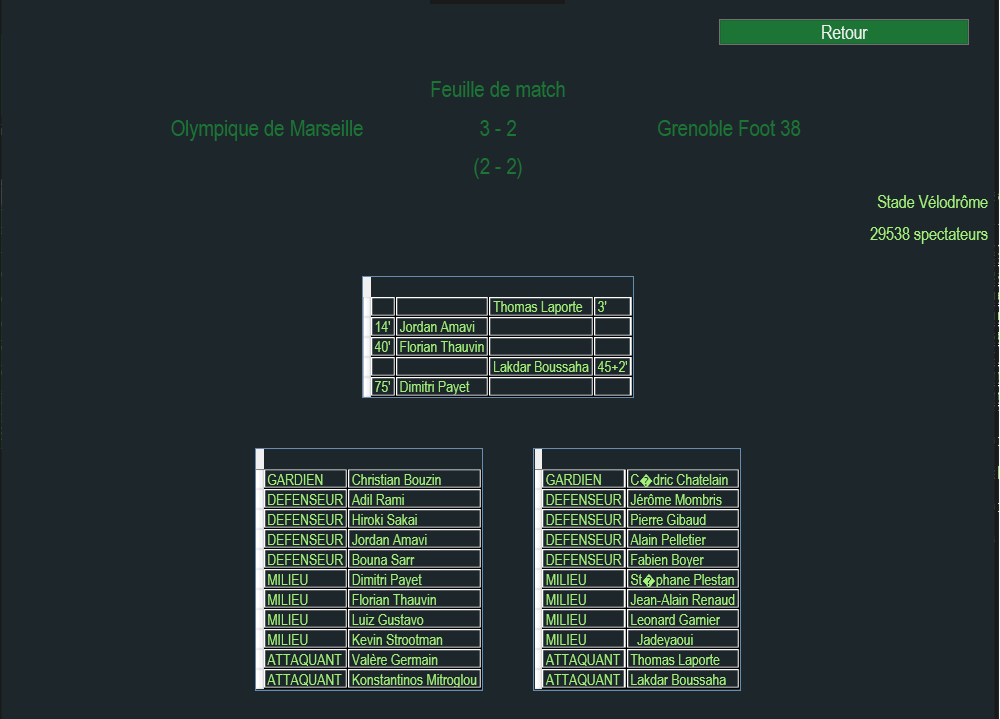
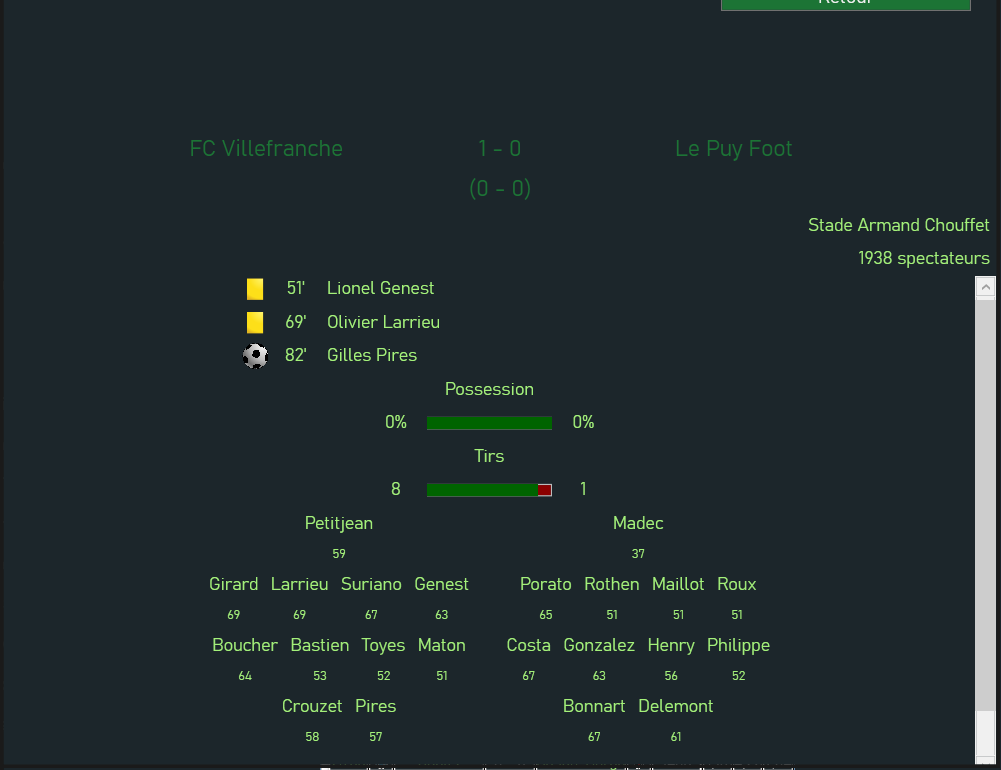
Add visual composition in match view

diff --git a/TheManager_GUI/Windows_Match.xaml b/TheManager_GUI/Windows_Match.xaml
@@ -41,19 +41,8 @@
 						<ProgressBar Name="pbTirs" Minimum="0" Maximum="100" Value="50" Width="100" Height="10" Foreground="DarkGreen" Background="DarkRed" />
 						<Label Name="lbTirs2" Content="10" Width="50" HorizontalContentAlignment="Center" Style="{StaticResource StyleLabel2}"/>
 					</StackPanel>
-					<StackPanel Orientation="Horizontal" HorizontalAlignment="Center">
-						<DataGrid IsReadOnly="True" MouseDoubleClick="DgCompo1_MouseDoubleClick" MaxHeight="175" Margin="20" Name="dgCompo1" Style="{StaticResource StyleDataGrid}" CellStyle="{StaticResource StyleDataCellGrid}" ColumnHeaderStyle="{StaticResource StyleDataHeaderGrid}">
-							<DataGrid.Columns>
-								<DataGridTextColumn Header="" Binding="{Binding Poste}"/>
-								<DataGridTextColumn Header="" Binding="{Binding Joueur}"/>
-							</DataGrid.Columns>
-						</DataGrid>
-						<DataGrid IsReadOnly="True" MouseDoubleClick="DgCompo2_MouseDoubleClick" MaxHeight="175" Margin="20" Name="dgCompo2" Style="{StaticResource StyleDataGrid}" CellStyle="{StaticResource StyleDataCellGrid}" ColumnHeaderStyle="{StaticResource StyleDataHeaderGrid}">
-							<DataGrid.Columns>
-								<DataGridTextColumn Header="" Binding="{Binding Poste}"/>
-								<DataGridTextColumn Header="" Binding="{Binding Joueur}"/>
-							</DataGrid.Columns>
-						</DataGrid>
+					<StackPanel Orientation="Horizontal" Name="spCompositions" Height="200" HorizontalAlignment="Center">
+						
 					</StackPanel>
 					<DataGrid IsReadOnly="True" MouseDoubleClick="DgJournalistes_MouseDoubleClick" HorizontalAlignment="Left" Margin="20" Name="dgJournalistes" Style="{StaticResource StyleDataGrid}" CellStyle="{StaticResource StyleDataCellGrid}" ColumnHeaderStyle="{StaticResource StyleDataHeaderGrid}">
 						<DataGrid.Columns>

diff --git a/TheManager_GUI/VueClassement/ViewUtils.cs b/TheManager_GUI/VueClassement/ViewUtils.cs
@@ -1,7 +1,9 @@
 using System;
+using System.Collections.Generic;
 using System.IO;
 using System.Windows;
 using System.Windows.Controls;
+using System.Windows.Documents;
 using System.Windows.Markup;
 using System.Windows.Media;
 using System.Windows.Media.Imaging;
@@ -48,6 +50,73 @@ namespace TheManager_GUI
                 label.Foreground = color;
             }
             return label;
+        }
+
+        public static StackPanel CreateCompositionPanel(List<Player> players, bool showEnergy)
+        {
+            StackPanel res = new StackPanel();
+            res.Orientation = Orientation.Vertical;
+            res.Margin = new Thickness(10, 0, 10, 0);
+
+            StackPanel spGardiens = new StackPanel();
+            spGardiens.Orientation = Orientation.Horizontal;
+            spGardiens.HorizontalAlignment = HorizontalAlignment.Center;
+            StackPanel spDefender = new StackPanel();
+            spDefender.Orientation = Orientation.Horizontal;
+            spDefender.HorizontalAlignment = HorizontalAlignment.Center;
+            StackPanel spMidfielder = new StackPanel();
+            spMidfielder.Orientation = Orientation.Horizontal;
+            spMidfielder.HorizontalAlignment = HorizontalAlignment.Center;
+            StackPanel spStrickers = new StackPanel();
+            spStrickers.Orientation = Orientation.Horizontal;
+            spStrickers.HorizontalAlignment = HorizontalAlignment.Center;
+
+            foreach (Player j in players)
+            {
+                StackPanel conteneur = null;
+                switch (j.position)
+                {
+                    case Position.Goalkeeper: conteneur = spGardiens; break;
+                    case Position.Defender: conteneur = spDefender; break;
+                    case Position.Midfielder: conteneur = spMidfielder; break;
+                    case Position.Striker: conteneur = spStrickers; break;
+                }
+
+                StackPanel conteneurJoueur = new StackPanel();
+                conteneurJoueur.Orientation = Orientation.Vertical;
+
+                Label label = new Label();
+                label.Content = j.lastName;
+                label.HorizontalAlignment = HorizontalAlignment.Center;
+                label.Style = Application.Current.FindResource("StyleLabel2") as Style;
+                conteneurJoueur.Children.Add(label);
+
+                if (showEnergy)
+                {
+                    ProgressBar pb = new ProgressBar();
+                    pb.Value = j.energy;
+                    pb.Maximum = 100;
+                    pb.Height = 5;
+                    pb.Width = 40;
+                    conteneurJoueur.Children.Add(pb);
+                }
+
+                Label note = new Label();
+                note.Content = j.level;
+                note.HorizontalAlignment = HorizontalAlignment.Center;
+                note.FontSize = 10;
+                note.Style = Application.Current.FindResource("StyleLabel2") as Style;
+
+                conteneurJoueur.Children.Add(note);
+
+                conteneur.Children.Add(conteneurJoueur);
+            }
+
+            res.Children.Add(spGardiens);
+            res.Children.Add(spDefender);
+            res.Children.Add(spMidfielder);
+            res.Children.Add(spStrickers);
+            return res;
         }
 
         public static StackPanel CreateStarNotation(float notation, float starsSize)

diff --git a/TheManager_GUI/Windows_Match.xaml.cs b/TheManager_GUI/Windows_Match.xaml.cs
@@ -49,7 +49,10 @@ namespace TheManager_GUI
             }
             lbMT.Content = "(" + match.ScoreHalfTime1 + " - " + match.ScoreHalfTime2 + ")";
 
-            foreach(MatchEvent em in match.events)
+            spCompositions.Children.Add(ViewUtils.CreateCompositionPanel(match.compo1, false));
+            spCompositions.Children.Add(ViewUtils.CreateCompositionPanel(match.compo2, false));
+
+            foreach (MatchEvent em in match.events)
             {
                 string icone = "";
                 switch (em.type)
@@ -147,16 +150,6 @@ namespace TheManager_GUI
 
             }
 
-            foreach (Player j in match.compo1)
-            {
-                dgCompo1.Items.Add(new JoueurElement { Joueur = j, Poste = j.position });
-            }
-
-            foreach (Player j in match.compo2)
-            {
-                dgCompo2.Items.Add(new JoueurElement { Joueur = j, Poste = j.position });
-            }
-
             foreach (KeyValuePair<TheManager.Media, Journalist> j in match.journalists)
             {
                 dgJournalistes.Items.Add(new JournalisteElement { Journaliste = j.Value, Media = j.Key.name });
@@ -178,25 +171,6 @@ namespace TheManager_GUI
             }
         }
 
-        private void DgCompo1_MouseDoubleClick(object sender, MouseButtonEventArgs e)
-        {
-            if(dgCompo1.SelectedItem != null)
-            {
-                JoueurElement je = (JoueurElement)dgCompo1.SelectedItem;
-                Windows_Joueur wj = new Windows_Joueur(je.Joueur);
-                wj.Show();
-            }
-        }
-
-        private void DgCompo2_MouseDoubleClick(object sender, MouseButtonEventArgs e)
-        {
-            if (dgCompo2.SelectedItem != null)
-            {
-                JoueurElement je = (JoueurElement)dgCompo2.SelectedItem;
-                Windows_Joueur wj = new Windows_Joueur(je.Joueur);
-                wj.Show();
-            }
-        }
     }
 
     public struct JoueurElement : IEquatable<JoueurElement>
